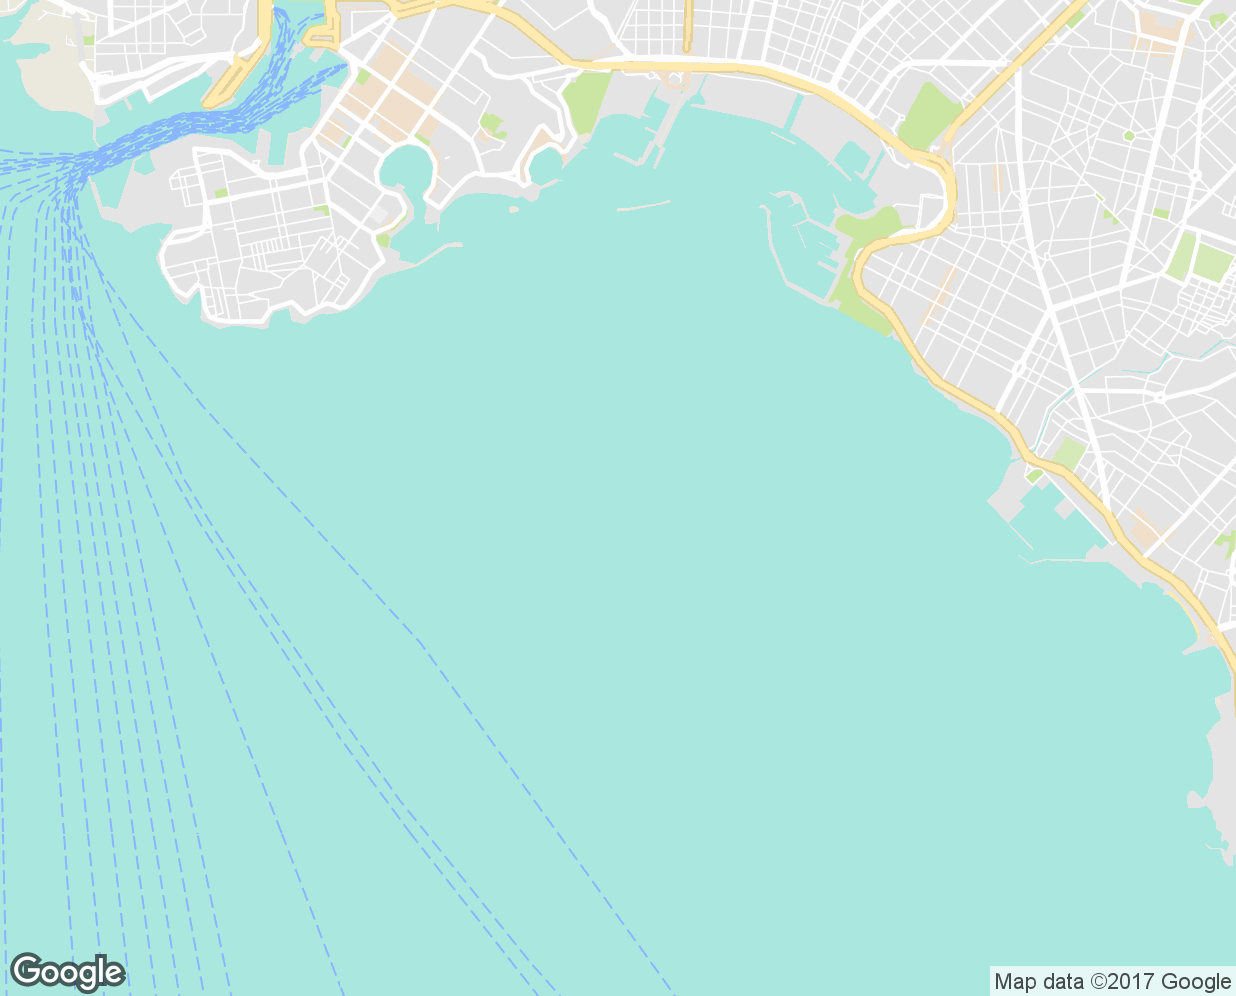
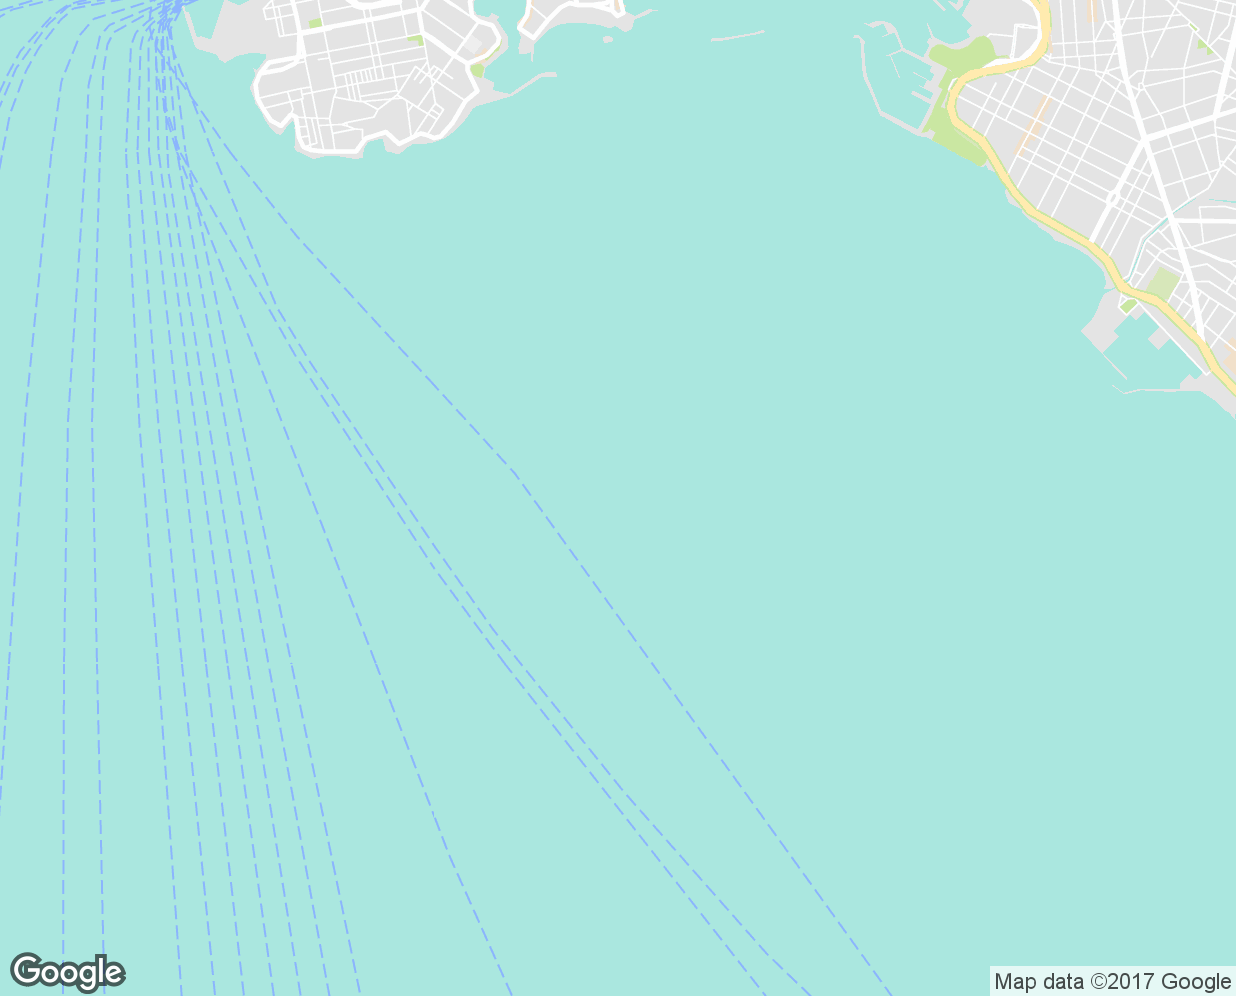
Fixed land boats issue -Google maps images regenerated for Athens and Taupo -course boundaries and mark coordinates updated for these courses too
#story[1104]

diff --git a/src/main/java/seng302/utilities/DisplayUtils.java b/src/main/java/seng302/utilities/DisplayUtils.java
@@ -159,7 +159,6 @@ public class DisplayUtils {
     public static String getLocalMapURL(){
         String courseName = RaceVisionXMLParser.COURSE_FILE.replace("-course.xml", "-map.png");
         String mapImagePath = "/graphics/mapImages/" + courseName;
-        System.out.println(getGoogleMapsURL());
         return DisplayUtils.class.getResource(mapImagePath).toExternalForm();
     }
 
@@ -172,39 +171,8 @@ public class DisplayUtils {
         double canvasY = Controller.getAnchorHeight();
         double canvasX = Controller.getAnchorWidth(); //halved to keep within google size guidelines
 
-        double boundaryMinLat;
-        double boundaryMinLon;
-
-        if(min.getLat() < 0) {
-            boundaryMinLat = min.getLat() - 0.05;
-        } else {
-            boundaryMinLat = min.getLat() + 0.05;
-        }
-        if(min.getLon() < 0) {
-            boundaryMinLon = min.getLon() - 0.05;
-        } else {
-            boundaryMinLon = min.getLon() + 0.05;
-        }
-
-        double boundaryMaxLat;
-        double boundaryMaxLon;
-
-        if(max.getLat() < 0) {
-            boundaryMaxLat = max.getLat() + 0.05;
-        } else {
-            boundaryMaxLat = max.getLat() - 0.05;
-        }
-
-        if(max.getLon() < 0) {
-            boundaryMaxLon = max.getLon() + 0.05;
-        } else {
-            boundaryMaxLon = max.getLon() - 0.05;
-        }
-
-        System.out.println(boundaryMinLat + " " + boundaryMinLon);
-
-        Coordinate bottomMarker = new Coordinate(boundaryMinLat, boundaryMinLon);
-        Coordinate topMarker = new Coordinate(boundaryMaxLat, boundaryMaxLon);
+        Coordinate bottomMarker = new Coordinate(min.getLat(), min.getLon());
+        Coordinate topMarker = new Coordinate(max.getLat(), max.getLon());
 
         Coordinate middlePoint = DisplayUtils.midPointFromTwoCoords(bottomMarker, topMarker);
 
@@ -216,10 +184,10 @@ public class DisplayUtils {
                 "&style=feature:water%7Ccolor:0xaae7df" +
                 "&style=feature:all%7Celement:labels%7Cvisibility:off" +
                 "&visible=" +
-                boundaryMinLat + "," + boundaryMinLon +
+                bottomMarker.getLat() + "," + bottomMarker.getLon() +
                 "%7C" +
-                boundaryMaxLat + "," + boundaryMaxLon +
-                "&scale=2" +
+                topMarker.getLat() + "," + topMarker.getLon() +
+                "&scale=1" +
                 "&key=" + GOOGLE_API_KEY;
         return mapURL;
     }
